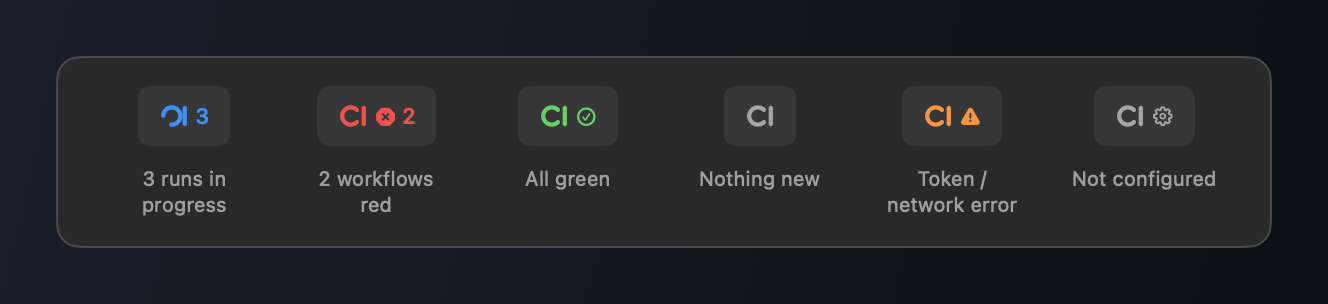
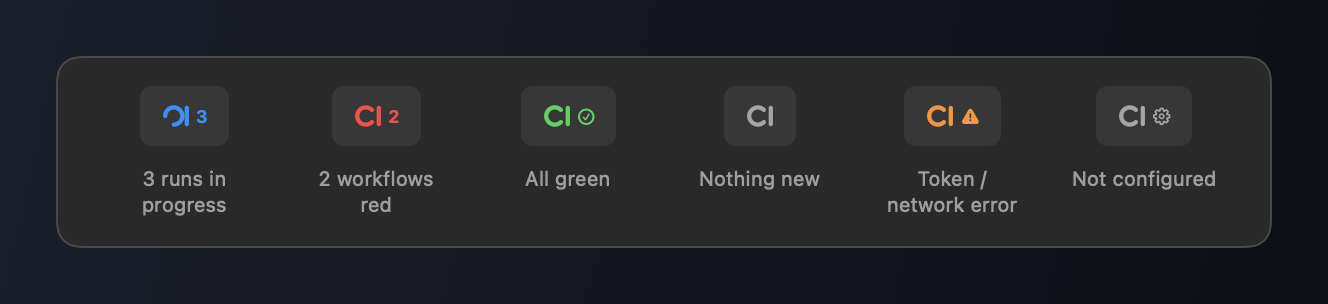
Refine menu bar status indicators

diff --git a/Sources/CIDeck/Views/MenuBarLabel.swift b/Sources/CIDeck/Views/MenuBarLabel.swift
@@ -3,9 +3,9 @@ import SwiftUI
 /// The menu bar extra itself: CIDeck's own "CI" mark, tinted by state.
 ///
 /// macOS renders status item images as template art, so colour alone can't carry
-/// meaning here — the mark's arc spins while runs are in flight, other states add a
-/// distinct SF Symbol beside it, plus a count badge when more than one run needs
-/// attention.
+/// meaning here. The mark's arc spins while runs are in flight, with one compact
+/// indicator beside it. A count takes precedence over the state symbol, so a red
+/// state reads simply as a red CI mark plus its failure count.
 @MainActor
 struct MenuBarLabel: View {
     let status: AggregateStatus
@@ -13,15 +13,21 @@ struct MenuBarLabel: View {
     @State private var angle: Double = 0
 
     var body: some View {
-        HStack(spacing: 2.5) {
+        HStack(spacing: 2) {
             CIMark(spin: isRunning ? angle : 0)
-            if let symbol = status.accessorySymbol {
-                Image(systemName: symbol).font(.system(size: 9, weight: .bold))
-            }
+
             if let badge = status.badge {
-                Text(badge).font(.system(size: 11, weight: .semibold))
+                Text(badge)
+                    .font(.system(size: 9, weight: .bold, design: .rounded))
+                    .monospacedDigit()
+            } else if let symbol = status.accessorySymbol {
+                Image(systemName: symbol)
+                    .font(.system(size: 8, weight: .bold))
+                    .symbolRenderingMode(.monochrome)
             }
         }
+        .frame(height: 18)
+        .fixedSize(horizontal: true, vertical: false)
         .foregroundStyle(status.tint)
         .onAppear { spinIfNeeded() }
         .onChange(of: status) { _ in spinIfNeeded() }

diff --git a/Sources/CIDeck/Models/GitHubModels.swift b/Sources/CIDeck/Models/GitHubModels.swift
@@ -290,7 +290,7 @@ enum AggregateStatus: Equatable, Sendable {
         }
     }
 
-    /// Small glyph shown next to the CI mark. `.running` is left out because the
+    /// Small glyph shown beside the CI mark. `.running` is left out because the
     /// mark's arc already spins, and `.idle` because a quiet bar is the point.
     var accessorySymbol: String? {
         switch self {
@@ -302,7 +302,7 @@ enum AggregateStatus: Equatable, Sendable {
     var badge: String? {
         switch self {
         case .running(let n): return n > 1 ? "\(n)" : nil
-        case .failure(let n): return n > 1 ? "\(n)" : nil
+        case .failure(let n): return "\(n)"
         default:              return nil
         }
     }

diff --git a/README.md b/README.md
@@ -58,7 +58,7 @@ Click a run to open it on GitHub. Right-click for *Copy link* or *Copy commit SH
 
 ![Menu bar icon states](docs/menubar-states.png)
 
-macOS renders status item images as templates, so color may be ignored. Each state therefore uses a distinct **shape**: the “CI” arc spins while runs are active, other states add a dedicated SF Symbol, and a badge appears when more than one run needs attention.
+macOS renders status item images as templates, so color may be ignored. Each state therefore uses a distinct **shape**: the “CI” arc spins while runs are active, other states add a dedicated SF Symbol, and counts appear beside the mark when useful.
 
 ## Requirements
 
